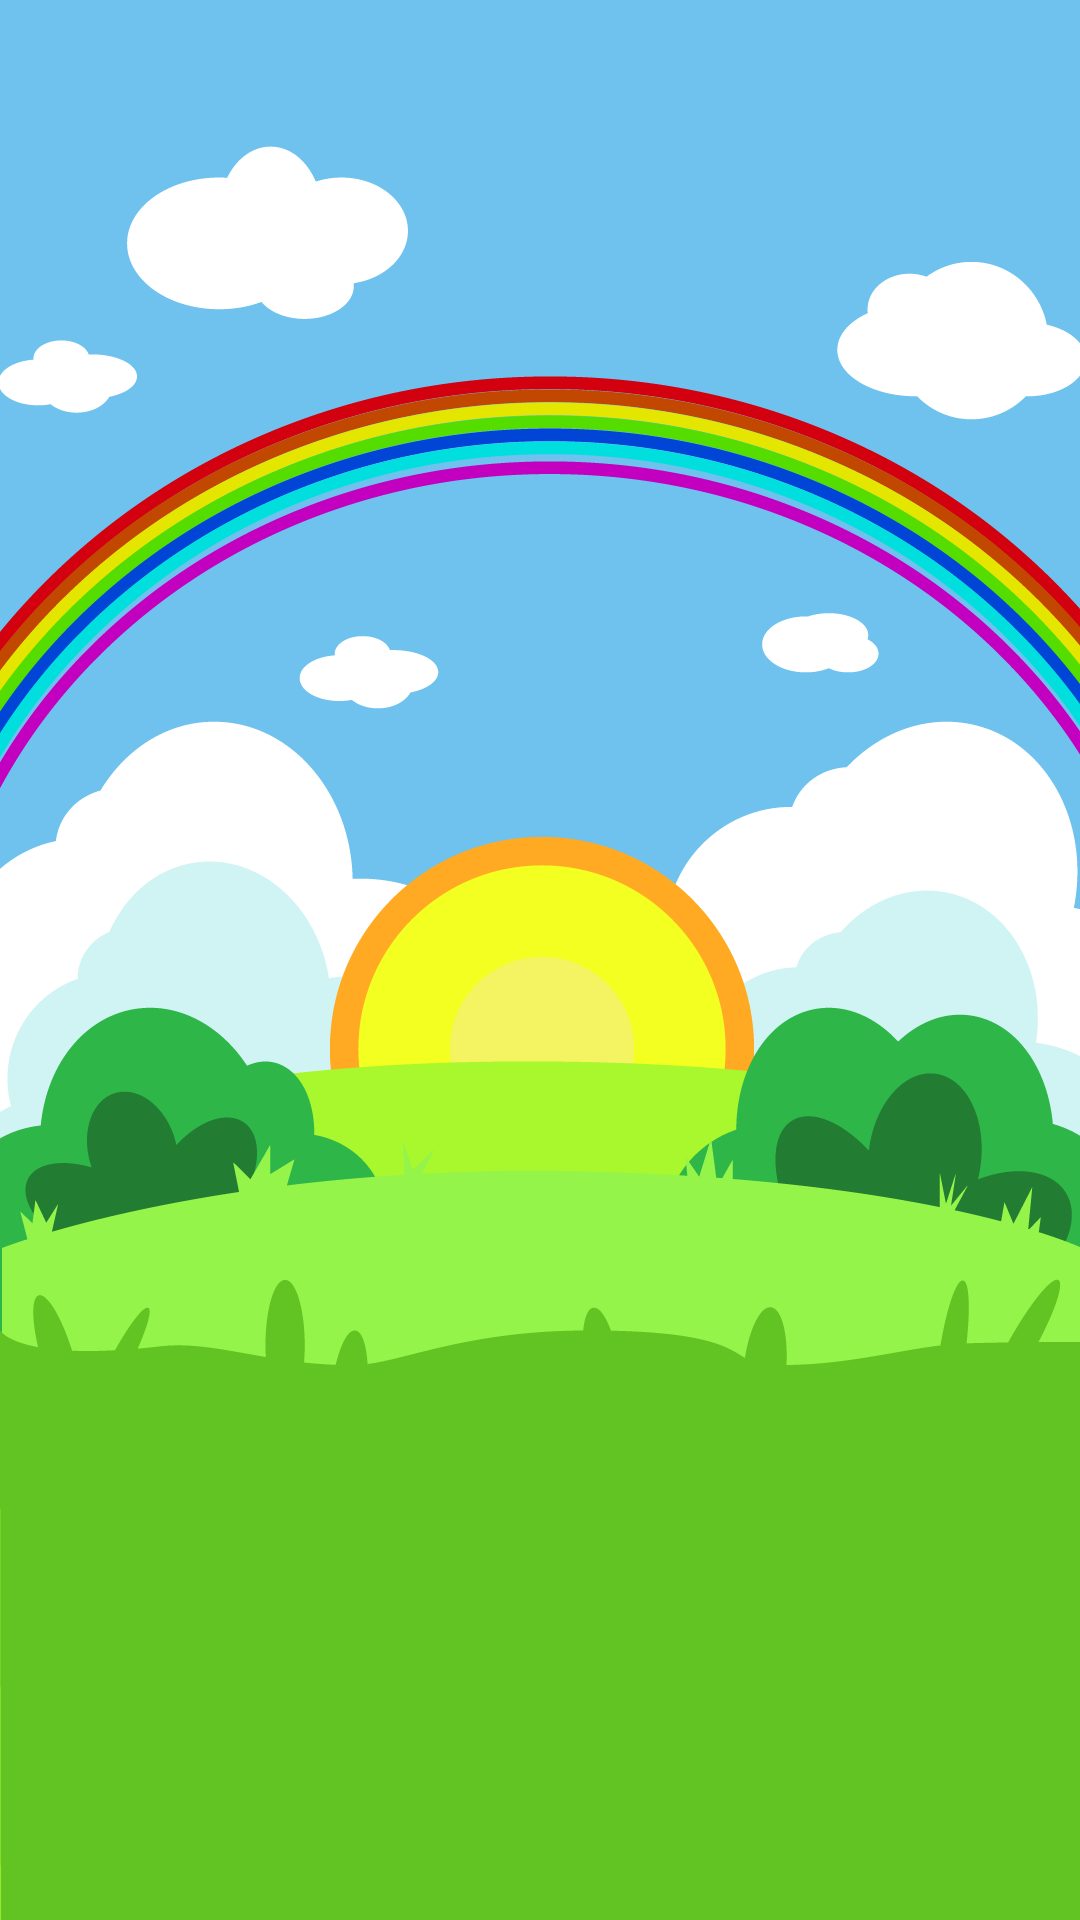
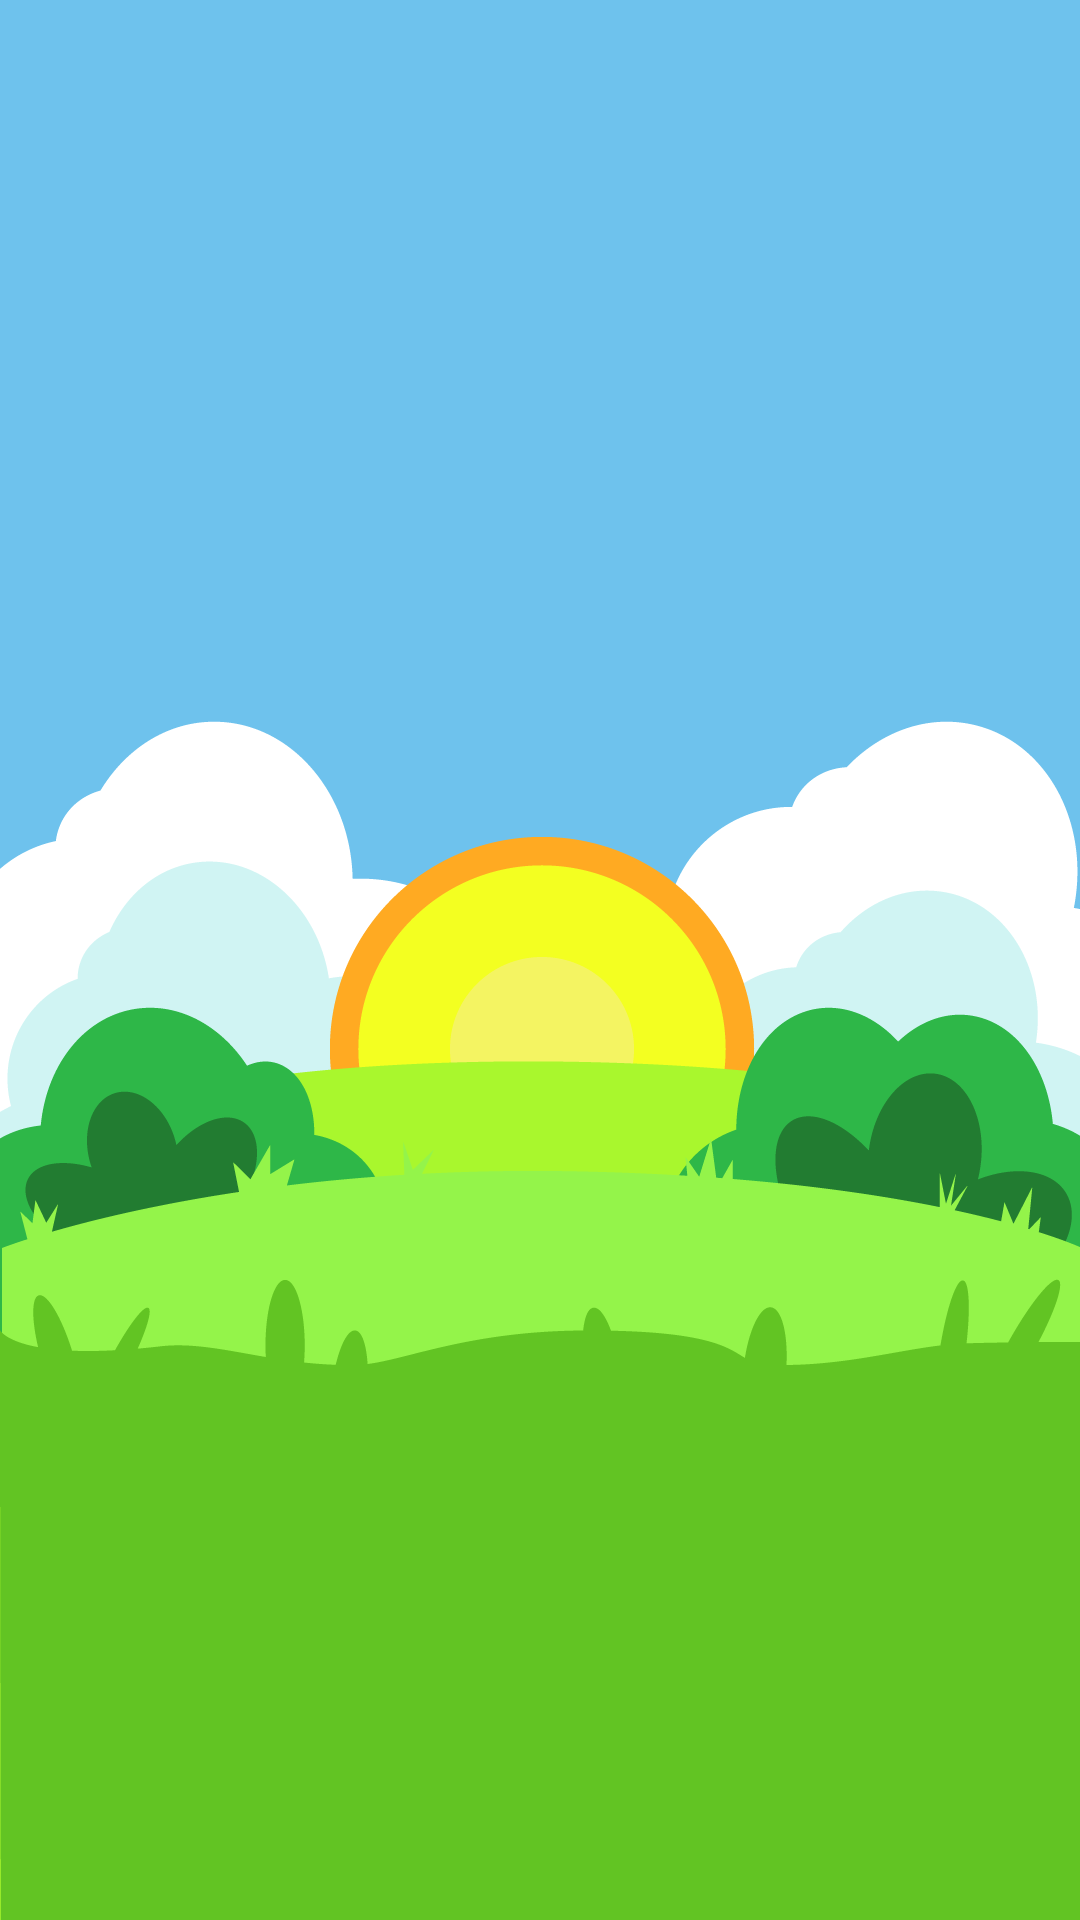
[NEW]Selection Scene Animation

diff --git a/Classes/GameScene/SelectionScene.cpp b/Classes/GameScene/SelectionScene.cpp
@@ -14,6 +14,13 @@ namespace GameScene
         std::string episodeButtonImagePrefix = "image/EpisodeButton_";
         std::string backButtonImage = "image/BackButton.png";
         std::string selectionTitleImage = "image/SelectionTitle.png";
+        std::string rainbowImage = "image/SelectionSceneRainbow.png";
+        std::string moveCloud0Image = "image/SelectionSceneMoveCloud0.png";
+        std::string moveCloud1Image = "image/SelectionSceneMoveCloud1.png";
+        std::string moveCloud2Image = "image/SelectionSceneMoveCloud2.png";
+        std::string moveCloud3Image = "image/SelectionSceneMoveCloud3.png";
+        std::string moveCloud4Image = "image/SelectionSceneMoveCloud4.png";
+        
         int currentEpisode = DB::EpisodeSetting::getInstance()->getCurrent();
         int maxEpisode = DB::EpisodeSetting::getInstance()->getMax();
         this->selectionBackground = new GameSprite::Background(backgroundImage);
@@ -25,9 +32,33 @@ namespace GameScene
         this->addChild(this->selectionBackground, 0);
         this->addChild(this->selectionBackButton, 5);
         this->addChild(this->selectionTitle, 5);
+        this->rainbow = new GameSprite::Image(rainbowImage);
+        this->rainbow->setPosition(this->getRainbowPosition());
+        this->addChild(this->rainbow, 2);
+        this->moveCloud0 = new GameSprite::Image(moveCloud0Image);
+        this->moveCloud0->setPosition(this->getMoveCloudPosition(0));
+        this->addChild(this->moveCloud0, 1);
+        this->moveCloud1 = new GameSprite::Image(moveCloud1Image);
+        this->moveCloud1->setPosition(this->getMoveCloudPosition(1));
+        this->addChild(this->moveCloud1, 1);
+        this->moveCloud2 = new GameSprite::Image(moveCloud2Image);
+        this->moveCloud2->setPosition(this->getMoveCloudPosition(2));
+        this->addChild(this->moveCloud2, 1);
+        this->moveCloud3 = new GameSprite::Image(moveCloud3Image);
+        this->moveCloud3->setPosition(this->getMoveCloudPosition(3));
+        this->addChild(this->moveCloud3, 1);
+        this->moveCloud4 = new GameSprite::Image(moveCloud4Image);
+        this->moveCloud4->setPosition(this->getMoveCloudPosition(4));
+        this->addChild(this->moveCloud4, 1);
         spriteManager->setWithKey("SelectionScene_Background", this->selectionBackground);
         spriteManager->setWithKey("SelectionScene_BackButton", this->selectionBackButton);
         spriteManager->setWithKey("SelectionScene_SelectionTitle", this->selectionTitle);
+        spriteManager->setWithKey("SelectionScene_Rainbow", this->rainbow);
+        spriteManager->setWithKey("SelectionScene_MoveCloud0", this->moveCloud0);
+        spriteManager->setWithKey("SelectionScene_MoveCloud1", this->moveCloud1);
+        spriteManager->setWithKey("SelectionScene_MoveCloud2", this->moveCloud2);
+        spriteManager->setWithKey("SelectionScene_MoveCloud3", this->moveCloud3);
+        spriteManager->setWithKey("SelectionScene_MoveCloud4", this->moveCloud4);
         for (int i = 0; i < maxEpisode; i++) {
             std::stringstream filePath;
             filePath << episodeButtonImagePrefix << i << ".png";
@@ -37,11 +68,12 @@ namespace GameScene
             }
             this->episodeButtonVector.push_back(episodeButton);
             episodeButton->setPosition(this->getEpisodeButtonPosition(i));
-            this->addChild(episodeButton, 1);
+            this->addChild(episodeButton, 4);
             std::stringstream key;
             key << "SelectionScene_EpisodeButton_" << i;
             spriteManager->setWithKey(key.str(), episodeButton);
         }
+        this->runConstantAnimation();
     }
     
     void SelectionScene::releaseScene()
@@ -51,12 +83,35 @@ namespace GameScene
         spriteManager->releaseByKey("SelectionScene_Background");
         spriteManager->releaseByKey("SelectionScene_BackButton");
         spriteManager->releaseByKey("SelectionScene_SelectionTitle");
+        spriteManager->releaseByKey("SelectionScene_Rainbow");
+        spriteManager->releaseByKey("SelectionScene_MoveCloud0");
+        spriteManager->releaseByKey("SelectionScene_MoveCloud1");
+        spriteManager->releaseByKey("SelectionScene_MoveCloud2");
+        spriteManager->releaseByKey("SelectionScene_MoveCloud3");
+        spriteManager->releaseByKey("SelectionScene_MoveCloud4");
         int maxEpisode = DB::EpisodeSetting::getInstance()->getMax();
         for (int i = 0; i < maxEpisode; i++) {
             std::stringstream key;
             key << "SelectionScene_EpisodeButton_" << i;
             spriteManager->releaseByKey(key.str());
         }
+    }
+    
+    void SelectionScene::runConstantAnimation()
+    {
+        auto move100 = MoveBy::create(15.f, Vec2(100, 0));
+        auto moveNegative100 = MoveBy::create(15.f, Vec2(-100, 0));
+        auto move150 = MoveBy::create(15.f, Vec2(150, 0));
+        auto moveNegative150 = MoveBy::create(15.f, Vec2(-150, 0));
+        auto repeat100 = RepeatForever::create(
+                         Sequence::create(move100, move100->reverse(), moveNegative100, moveNegative100->reverse(), nullptr));
+        auto repeat150 = RepeatForever::create(
+                         Sequence::create(move150, move150->reverse(), moveNegative150, moveNegative150->reverse(), nullptr));
+        this->moveCloud0->runAction(repeat150->clone());
+        this->moveCloud1->runAction(repeat100->clone());
+        this->moveCloud2->runAction(repeat100->clone());
+        this->moveCloud3->runAction(repeat100->clone());
+        this->moveCloud4->runAction(repeat150->clone());
     }
     
     Vec2 SelectionScene::getBackgroundPosition()
@@ -90,5 +145,36 @@ namespace GameScene
         };
         
         return episodeButtonPositionSet[episodeNumber];
+    }
+    
+    Vec2 SelectionScene::getRainbowPosition()
+    {
+        return Vec2(540, 1920 - 640);
+    }
+    
+    Vec2 SelectionScene::getMoveCloudPosition(int index)
+    {
+        Vec2 result;
+        switch (index) {
+            case 0:
+                result = Vec2(270, 1920 - 230);
+                break;
+            case 1:
+                result = Vec2(70, 1920 - 375);
+                break;
+            case 2:
+                result = Vec2(370, 1920 - 670);
+                break;
+            case 3 :
+                result = Vec2(820, 1920 - 640);
+                break;
+            case 4 :
+                result = Vec2(960, 1920 - 340);
+                break;
+            default :
+                result = Vec2(270, 1920 - 230);
+                break;
+        }
+        return result;
     }
 }

diff --git a/Classes/GameScene/SelectionScene.h b/Classes/GameScene/SelectionScene.h
@@ -4,6 +4,7 @@
 #include "cocos2d.h"
 #include "BaseScene.h"
 #include "BaseScene.h"
+#include "GameSprite/Image.h"
 #include "GameSprite/Background.h"
 #include "GameSprite/EpisodeButton.h"
 #include "GameSprite/BackButton.h"
@@ -22,15 +23,24 @@ namespace GameScene
         SelectionScene();
         void initScene();
         void releaseScene();
+        void runConstantAnimation();
         GameSprite::Background* selectionBackground;
         GameSprite::BackButton* selectionBackButton;
         GameSprite::SelectionTitle* selectionTitle;
         std::vector<GameSprite::EpisodeButton*> episodeButtonVector;
+        GameSprite::Image* moveCloud0;
+        GameSprite::Image* moveCloud1;
+        GameSprite::Image* moveCloud2;
+        GameSprite::Image* moveCloud3;
+        GameSprite::Image* moveCloud4;
+        GameSprite::Image* rainbow;
     private:
         Vec2 getBackgroundPosition();
         Vec2 getTitlePosition();
         Vec2 getBackButtonPosition();
         Vec2 getEpisodeButtonPosition(int episodeNumber);
+        Vec2 getRainbowPosition();
+        Vec2 getMoveCloudPosition(int index);
     };
 }
 
